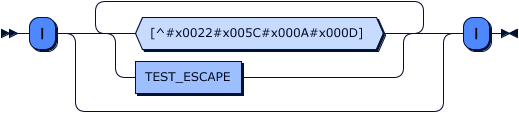
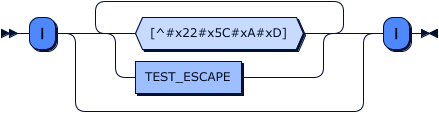
Update patch docs

diff --git a/docs/tremor-script/grammar/index.html b/docs/tremor-script/grammar/index.html
@@ -6,7 +6,7 @@
       <meta http-equiv="Content-Type" content="text/html; charset=UTF-8">
       
       
-      <meta name="generator" content="Railroad Diagram Generator 1.62">
+      <meta name="generator" content="Railroad Diagram Generator 1.63">
       
       <style type="text/css">
     ::-moz-selection
@@ -196,7 +196,7 @@
   </style>
    </head>
    
-   <body data-new-gr-c-s-check-loaded="8.868.0" data-gr-ext-installed="">
+   <body data-new-gr-c-s-check-loaded="8.877.0" data-gr-ext-installed="">
       
       <p style="font-size: 14px; font-weight:bold"><a name="ModCommentLine">ModCommentLine:</a></p><img border="0" src="diagram/ModCommentLine.png" height="69" width="329"><p>
          
@@ -652,11 +652,11 @@
             
             <li><a href="#SimpleExpr" title="SimpleExpr">SimpleExpr</a></li>
             </ul>
-         </p><br><p style="font-size: 14px; font-weight:bold"><a name="Field">Field:</a></p><img border="0" src="diagram/Field.png" height="37" width="295" usemap="#Field.map"><map name="Field.map"><area shape="rect" coords="29,1,153,33" href="#STRING_LITERAL" title="STRING_LITERAL"><area shape="rect" coords="217,1,265,33" href="#Expr" title="Expr"></map><p>
+         </p><br><p style="font-size: 14px; font-weight:bold"><a name="Field">Field:</a></p><img border="0" src="diagram/Field.png" height="37" width="229" usemap="#Field.map"><map name="Field.map"><area shape="rect" coords="29,1,87,33" href="#String" title="String"><area shape="rect" coords="151,1,199,33" href="#Expr" title="Expr"></map><p>
          
          <div class="ebnf"><code>
                
-               <div><a href="#Field" title="Field">Field</a>&nbsp;&nbsp;&nbsp;&nbsp;::= <a href="#STRING_LITERAL" title="STRING_LITERAL">STRING_LITERAL</a> ':' <a href="#Expr" title="Expr">Expr</a></div></code></div>
+               <div><a href="#Field" title="Field">Field</a>&nbsp;&nbsp;&nbsp;&nbsp;::= <a href="#String" title="String">String</a> ':' <a href="#Expr" title="Expr">Expr</a></div></code></div>
          </p>
       
       <p>referenced by:
@@ -877,11 +877,11 @@
             
             <li><a href="#MatchingFnDecl" title="MatchingFnDecl">MatchingFnDecl</a></li>
             </ul>
-         </p><br><p style="font-size: 14px; font-weight:bold"><a name="Emit">Emit:</a></p><img border="0" src="diagram/Emit.png" height="69" width="421" usemap="#Emit.map"><map name="Emit.map"><area shape="rect" coords="99,1,147,33" href="#Expr" title="Expr"><area shape="rect" coords="247,33,371,65" href="#STRING_LITERAL" title="STRING_LITERAL"></map><p>
+         </p><br><p style="font-size: 14px; font-weight:bold"><a name="Emit">Emit:</a></p><img border="0" src="diagram/Emit.png" height="69" width="355" usemap="#Emit.map"><map name="Emit.map"><area shape="rect" coords="99,1,147,33" href="#Expr" title="Expr"><area shape="rect" coords="247,33,305,65" href="#String" title="String"></map><p>
          
          <div class="ebnf"><code>
                
-               <div><a href="#Emit" title="Emit">Emit</a>&nbsp;&nbsp;&nbsp;&nbsp;&nbsp;::= 'emit' <a href="#Expr" title="Expr">Expr</a> ( '=&gt;' <a href="#STRING_LITERAL" title="STRING_LITERAL">STRING_LITERAL</a> )?</div></code></div>
+               <div><a href="#Emit" title="Emit">Emit</a>&nbsp;&nbsp;&nbsp;&nbsp;&nbsp;::= 'emit' <a href="#Expr" title="Expr">Expr</a> ( '=&gt;' <a href="#String" title="String">String</a> )?</div></code></div>
          </p>
       
       <p>referenced by:
@@ -1174,15 +1174,13 @@
             
             <li><a href="#SimpleExpr" title="SimpleExpr">SimpleExpr</a></li>
             </ul>
-         </p><br><p style="font-size: 14px; font-weight:bold"><a name="PatchOperation">PatchOperation:</a></p><img border="0" src="diagram/PatchOperation.png" height="257" width="441" usemap="#PatchOperation.map"><map name="PatchOperation.map"><area shape="rect" coords="195,1,243,33" href="#Expr" title="Expr"><area shape="rect" coords="343,1,391,33" href="#Expr" title="Expr"><area shape="rect" coords="125,221,157,253" href="#Id" title="Id"></map><p>
+         </p><br><p style="font-size: 14px; font-weight:bold"><a name="PatchOperation">PatchOperation:</a></p><img border="0" src="diagram/PatchOperation.png" height="365" width="453" usemap="#PatchOperation.map"><map name="PatchOperation.map"><area shape="rect" coords="197,21,255,53" href="#String" title="String"><area shape="rect" coords="355,21,403,53" href="#Expr" title="Expr"><area shape="rect" coords="125,329,157,361" href="#Id" title="Id"></map><p>
          
          <div class="ebnf"><code>
                
                <div><a href="#PatchOperation" title="PatchOperation">PatchOperation</a></div>
                
-               <div>&nbsp;&nbsp;&nbsp;&nbsp;&nbsp;&nbsp;&nbsp;&nbsp;&nbsp;::= ( ( 'insert' | 'upsert' | 'update' | 'merge' ) <a href="#Expr" title="Expr">Expr</a> | 'merge' ) '=&gt;' <a href="#Expr" title="Expr">Expr</a></div>
-               
-               <div>&nbsp;&nbsp;&nbsp;&nbsp;&nbsp;&nbsp;&nbsp;&nbsp;&nbsp;&nbsp;&nbsp;| 'erase' <a href="#Id" title="Id">Id</a></div></code></div>
+               <div>&nbsp;&nbsp;&nbsp;&nbsp;&nbsp;&nbsp;&nbsp;&nbsp;&nbsp;::= ( ( ( 'insert' | 'upsert' | 'update' | 'merge' | 'default' ) <a href="#String" title="String">String</a> | 'merge' | 'default' ) '=&gt;' <a href="#Expr" title="Expr">Expr</a> | 'erase' <a href="#Id" title="Id">Id</a> )?</div></code></div>
          </p>
       
       <p>referenced by:
@@ -1315,13 +1313,11 @@
             
             <li><a href="#QualifiedSegments" title="QualifiedSegments">QualifiedSegments</a></li>
             </ul>
-         </p><br><p style="font-size: 14px; font-weight:bold"><a name="STRING_LITERAL">STRING_LITERAL:</a></p><img border="0" src="diagram/STRING_LITERAL.png" height="113" width="519" usemap="#STRING_LITERAL.map"><map name="STRING_LITERAL.map"><area shape="rect" coords="135,61,259,93" href="#STRING_ESCAPE" title="STRING_ESCAPE"></map><p>
+         </p><br><p style="font-size: 14px; font-weight:bold"><a name="String">String:</a></p><img border="0" src="diagram/String.png" height="37" width="183" usemap="#String.map"><map name="String.map"><area shape="rect" coords="29,1,153,33" href="#STRING_LITERAL" title="STRING_LITERAL"></map><p>
          
          <div class="ebnf"><code>
                
-               <div><a href="#STRING_LITERAL" title="STRING_LITERAL">STRING_LITERAL</a></div>
-               
-               <div>&nbsp;&nbsp;&nbsp;&nbsp;&nbsp;&nbsp;&nbsp;&nbsp;&nbsp;::= '"' ( [^#x0022#x005C#x000A#x000D] | <a href="#STRING_ESCAPE" title="STRING_ESCAPE">STRING_ESCAPE</a> )* '"'</div></code></div>
+               <div><a href="#String" title="String">String</a>&nbsp;&nbsp;&nbsp;::= <a href="#STRING_LITERAL" title="STRING_LITERAL">STRING_LITERAL</a></div></code></div>
          </p>
       
       <p>referenced by:
@@ -1331,6 +1327,25 @@
             <li><a href="#Emit" title="Emit">Emit</a></li>
             
             <li><a href="#Field" title="Field">Field</a></li>
+            
+            <li><a href="#Literal" title="Literal">Literal</a></li>
+            
+            <li><a href="#PatchOperation" title="PatchOperation">PatchOperation</a></li>
+            </ul>
+         </p><br><p style="font-size: 14px; font-weight:bold"><a name="STRING_LITERAL">STRING_LITERAL:</a></p><img border="0" src="diagram/STRING_LITERAL.png" height="113" width="439" usemap="#STRING_LITERAL.map"><map name="STRING_LITERAL.map"><area shape="rect" coords="135,61,259,93" href="#STRING_ESCAPE" title="STRING_ESCAPE"></map><p>
+         
+         <div class="ebnf"><code>
+               
+               <div><a href="#STRING_LITERAL" title="STRING_LITERAL">STRING_LITERAL</a></div>
+               
+               <div>&nbsp;&nbsp;&nbsp;&nbsp;&nbsp;&nbsp;&nbsp;&nbsp;&nbsp;::= '"' ( [^#x22#x5C#xA#xD] | <a href="#STRING_ESCAPE" title="STRING_ESCAPE">STRING_ESCAPE</a> )* '"'</div></code></div>
+         </p>
+      
+      <p>referenced by:
+         
+         <ul>
+            
+            <li><a href="#String" title="String">String</a></li>
             </ul>
          </p><br><p style="font-size: 14px; font-weight:bold"><a name="STRING_ESCAPE">STRING_ESCAPE:</a></p><img border="0" src="diagram/STRING_ESCAPE.png" height="345" width="175"><p>
          
@@ -1347,13 +1362,13 @@
             
             <li><a href="#STRING_LITERAL" title="STRING_LITERAL">STRING_LITERAL</a></li>
             </ul>
-         </p><br><p style="font-size: 14px; font-weight:bold"><a name="TEST_LITERAL">TEST_LITERAL:</a></p><img border="0" src="diagram/TEST_LITERAL.png" height="113" width="519" usemap="#TEST_LITERAL.map"><map name="TEST_LITERAL.map"><area shape="rect" coords="135,61,241,93" href="#TEST_ESCAPE" title="TEST_ESCAPE"></map><p>
+         </p><br><p style="font-size: 14px; font-weight:bold"><a name="TEST_LITERAL">TEST_LITERAL:</a></p><img border="0" src="diagram/TEST_LITERAL.png" height="113" width="439" usemap="#TEST_LITERAL.map"><map name="TEST_LITERAL.map"><area shape="rect" coords="135,61,241,93" href="#TEST_ESCAPE" title="TEST_ESCAPE"></map><p>
          
          <div class="ebnf"><code>
                
                <div><a href="#TEST_LITERAL" title="TEST_LITERAL">TEST_LITERAL</a></div>
                
-               <div>&nbsp;&nbsp;&nbsp;&nbsp;&nbsp;&nbsp;&nbsp;&nbsp;&nbsp;::= '|' ( [^#x0022#x005C#x000A#x000D] | <a href="#TEST_ESCAPE" title="TEST_ESCAPE">TEST_ESCAPE</a> )* '|'</div></code></div>
+               <div>&nbsp;&nbsp;&nbsp;&nbsp;&nbsp;&nbsp;&nbsp;&nbsp;&nbsp;::= '|' ( [^#x22#x5C#xA#xD] | <a href="#TEST_ESCAPE" title="TEST_ESCAPE">TEST_ESCAPE</a> )* '|'</div></code></div>
          </p>
       
       <p>referenced by:
@@ -1485,7 +1500,7 @@
                   <nobr class="signature">... generated by <a name="Railroad-Diagram-Generator" class="signature" title="https://www.bottlecaps.de/rr/ui" href="https://www.bottlecaps.de/rr/ui" target="_blank">RR - Railroad Diagram Generator</a></nobr>
                   </td>
                
-               <td><a name="Railroad-Diagram-Generator" title="https://www.bottlecaps.de/rr/ui" href="https://www.bottlecaps.de/rr/ui" target="_blank"><img border="0" src="diagram/rr-1.62.png" height="16" width="16"></a></td>
+               <td><a name="Railroad-Diagram-Generator" title="https://www.bottlecaps.de/rr/ui" href="https://www.bottlecaps.de/rr/ui" target="_blank"><img border="0" src="diagram/rr-1.63.png" height="16" width="16"></a></td>
                </tr>
             </table>
          </p>

diff --git a/docs/tremor-script/index.md b/docs/tremor-script/index.md
@@ -137,7 +137,6 @@ For strings tremor allows string interpolation, this means embedding code direct
 
 A hash sign followed by a curly bracket needs to be escaped `\#{` hash signs themselves do not need to be escaped.
 
-
 ##### HereDocs
 
 To deal with pre formatted strings in tremor script we allow for **heredocs** they are started by using triple quotes `"""` that terminate the line (aka `"""bla` isn't legal). Heredocs do not truncate leading indentation, only the first leading linebreak after the leading triple-quote `"""` stripped.
@@ -212,20 +211,18 @@ BinaryField grammar:
 
 > ![field grammar](grammar/diagram/BinaryField.png)
 
-
 Parts of each field are: `<value>:<size>/<type>` where both `size` and `type` are optional.
 
 The binary types consists of up to three parts. That is 2 prefixes and 1 main type identifier. Examples: `unsigned-big-integer`, `signed-integer`, `binary`. The types currently supported are:
 
-* `binary` - this can handle both binaries and strings, `size` here refers to the number of bytes
-* `integer` - this can represent integers, `size` here means size in bits. In addition the type can be prefixed with `big` and `little` for indianness and `signed` and `unsigned` for signedness.
+- `binary` - this can handle both binaries and strings, `size` here refers to the number of bytes
+- `integer` - this can represent integers, `size` here means size in bits. In addition the type can be prefixed with `big` and `little` for indianness and `signed` and `unsigned` for signedness.
 
 Some examples would be:
 
-* `<<1:1, 42:7>>`
-* `<<(1 + 1)/unsigned-big-integer>>`
-* `<<1:4, "badger"/binary, -2:4/signed-little-integer>>`
-
+- `<<1:1, 42:7>>`
+- `<<(1 + 1)/unsigned-big-integer>>`
+- `<<1:4, "badger"/binary, -2:4/signed-little-integer>>`
 
 We could construct a TCP package this way:
 
@@ -260,17 +257,16 @@ let event = {
 
 See also:
 
- - [`std::binary`](stdlib/std/binary.md) for useful function for working with binary data.
- - [`std::string::into_binary`](stdlib/std/string.md#into_binarybytes) and [`std::string::from_utf8_lossy`](stdlib/std/string.md#from_utf8_lossybytes)
- - [`std::base64`](stdlib/std/base64.md) for encoding and decoding binary data to string using base64.
-
+- [`std::binary`](stdlib/std/binary.md) for useful function for working with binary data.
+- [`std::string::into_binary`](stdlib/std/string.md#into_binarybytes) and [`std::string::from_utf8_lossy`](stdlib/std/string.md#from_utf8_lossybytes)
+- [`std::base64`](stdlib/std/base64.md) for encoding and decoding binary data to string using base64.
 
 #### Operators
 
 List of binary and unary operators in `tremor-script`, ordered by precedence (from low to high):
 
 | Symbol       | Name                                                  | Example                                                 | Types                          |
-| ------------ | ----------------------------------------------------- | ------------------------------------------------------- |------------------------------- |
+| ------------ | ----------------------------------------------------- | ------------------------------------------------------- | ------------------------------ |
 | or           | Logical OR                                            | `true or false`                                         | bool                           |
 | and          | Logical AND                                           | `true and false`                                        | bool                           |
 | \|           | Bitwise OR                                            | _Bitwise OR has not been implemented yet_               | -                              |
@@ -594,7 +590,7 @@ end;
 #### Matching tuple patterns
 
 !!! tip
-    A *tuple pattern* matches a *target* value if the *target* is an array and **each** test matches the positionally correspondent value in the *target*. The *target* needs to be **at least as long** as the *pattern* but **can be longer** if the *pattern* ends with `...`.
+A _tuple pattern_ matches a _target_ value if the _target_ is an array and **each** test matches the positionally correspondent value in the _target_. The _target_ needs to be **at least as long** as the _pattern_ but **can be longer** if the _pattern_ ends with `...`.
 
     If you are looking for a more set like operation look at the [array pattern](#matching-array-patterns).
 
@@ -610,7 +606,6 @@ Tuple Pattern filter grammar:
 
 In addition to literal array matching, where the case expression tuple literal must exactly match the target of the match expression one for one, tuple patterns enable testing for matching elements within an array and filtering on the basis of matched elements.
 
-
 ```tremor
 let a = [0, 1, 2, 3, 4, 5, 6, 7, 8, 9, 0];
 match a of
@@ -624,10 +619,9 @@ end;
 #### Matching array patterns
 
 !!! tip
-    An *array pattern* matches a target value if the *target* is an array and **each** test in the pattern matches **at least for one** element in the *target* indiscriminate of their positions.
+An _array pattern_ matches a target value if the _target_ is an array and **each** test in the pattern matches **at least for one** element in the _target_ indiscriminate of their positions.
 
     If you are looking for a more array like / positional operation look at the [tuple pattern](#matching-tuple-patterns).
-
 
 > ![array case grammar](grammar/diagram/ArrayCase.png)
 
@@ -662,8 +656,7 @@ end;
 #### Matching record patterns
 
 !!! tip
-    A record pattern matches a target if the target is a record that contains **at least all declared keys** and the tests for **each of the declared key** match.
-
+A record pattern matches a target if the target is a record that contains **at least all declared keys** and the tests for **each of the declared key** match.
 
 > ![record case grammar](grammar/diagram/RecordCase.png)
 
@@ -740,9 +733,11 @@ end
 #### Effectors
 
 Effectors grammar:
+
 > ![effectors grammar](grammar/diagram/Effectors.png)
 
 Block:
+
 > ![block grammar](grammar/diagram/Block.png)
 
 Effectors are the expressions evaluated when a case pattern and guard succeeded.
@@ -787,7 +782,11 @@ Patch operation grammar
 
 Patch expressions define a set of record level field operations to be applied to a target record in order to transform a targetted record. Patch allows fields to be: inserted where there was no field before; removed where there was a field before; updated where there was a field before; or inserted or updated regardless of whether or not there was a field before. Patch also allows field level merge operations on records or for the targetted document itself to be merged. Merge operations in patch are syntax sugar in that they are both based on the merge operation.
 
-Patch follows the semantics of [RFC 6902](https://tools.ietf.org/html/rfc6902) with the explicit exclusion of the `copy` and `move` operations and with the addition of an `upsert` operation the variant supported by `tremor-script`
+Patch follows the semantics of [RFC 6902](https://tools.ietf.org/html/rfc6902) with the addition of an `upsert` and `default` operation.
+
+- `upsert "key" => "value"` - functions as a update or insert (replacing an existing value or creating a new one).
+- `default "key" => "value` - functions as a default for a key, inserting `"value"` only if `"key"` isn't present.
+- `default => {"nested": "template"}` - functions as a default template, recursively filling the given keys with values if not present.
 
 | Example                               | Expression                               | Result                      | Explanation                                               |
 | ------------------------------------- | ---------------------------------------- | --------------------------- | --------------------------------------------------------- |
@@ -850,9 +849,11 @@ Since the state storage lives for the lifetime of a pipeline, state will not be 
 > ![test expression grammar](grammar/diagram/TestExpr.png)
 
 TEST_LITERAL Grammar:
+
 > ![test literal grammar](grammar/diagram/TEST_LITERAL.png)
 
 TEST_ESCAPE Grammar:
+
 > ![test literal escape grammar](grammar/diagram/TEST_ESCAPE.png)
 
 The language has pluggable support for a number of microformats with two basic modes of operation that enable predicate tests ( does a particular value match the expected micro-format ) and elementization ( if a value does match a specific micro-format, then extract and elementize accordingly ).
@@ -891,7 +892,9 @@ There is no concept of _injector_ in the `tremor-script` language that is analog
 These rules are referenced in the main tremor-query grammar rules above and are listed here as extended reference.
 
 DocComment Grammar:
+
 > ![doc comment grammar](grammar/diagram/DocComment.png)
 
 DocCommentLine Grammar:
+
 > ![doc comment line grammar](grammar/diagram/DocCommentLine.png)

diff --git a/README.md b/README.md
@@ -8,14 +8,14 @@
 [![GitHub]](LICENSE)
 [![Discord]][discord-invite]
 
-[CII Best Practices]: https://bestpractices.coreinfrastructure.org/projects/4356/badge
+[cii best practices]: https://bestpractices.coreinfrastructure.org/projects/4356/badge
 [bestpractices]: https://bestpractices.coreinfrastructure.org/projects/4356
-[GitHub]: https://img.shields.io/github/license/tremor-rs/tremor-runtime
-[Discord]: https://img.shields.io/discord/752801695066488843.svg?label=&logo=discord&logoColor=ffffff&color=7389D8&labelColor=6A7EC2
+[github]: https://img.shields.io/github/license/tremor-rs/tremor-runtime
+[discord]: https://img.shields.io/discord/752801695066488843.svg?label=&logo=discord&logoColor=ffffff&color=7389D8&labelColor=6A7EC2
 [discord-invite]: https://bit.ly/tremor-discord
 
 This project contains the source code for [docs.tremor.rs](https://docs.tremor.rs).
 
 If you want to preview the documentation locally while making edits here, please refer to the [internal docs](docs/internal/LocalMkdocsSetup.md).
 
-Grammar Diagrams are generated using [Railroad Diagram Generator](https://github.com/GuntherRademacher/rr).
+Grammar Diagrams are generated using [Railroad Diagram Generator](https://www.bottlecaps.de/rr/ui) with the color `#4D88FF`.
